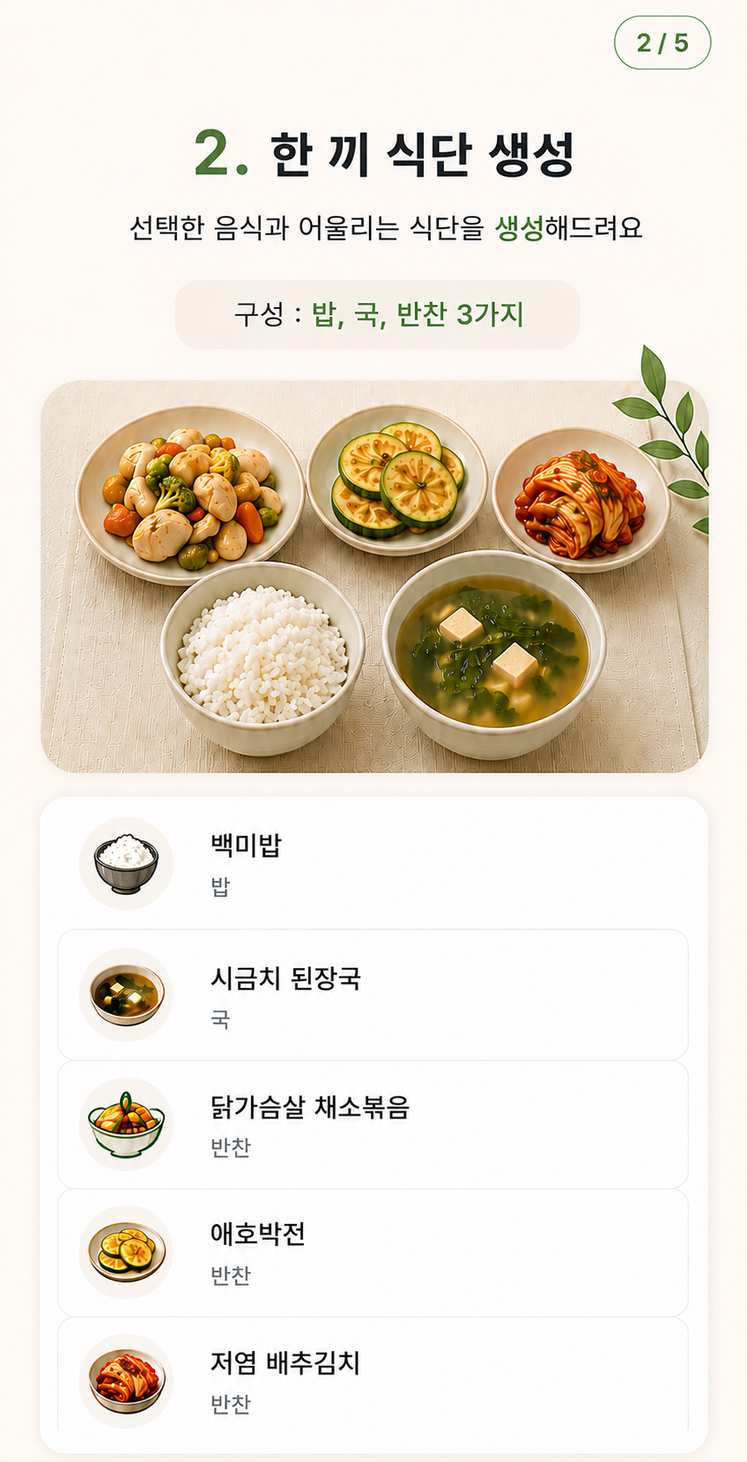
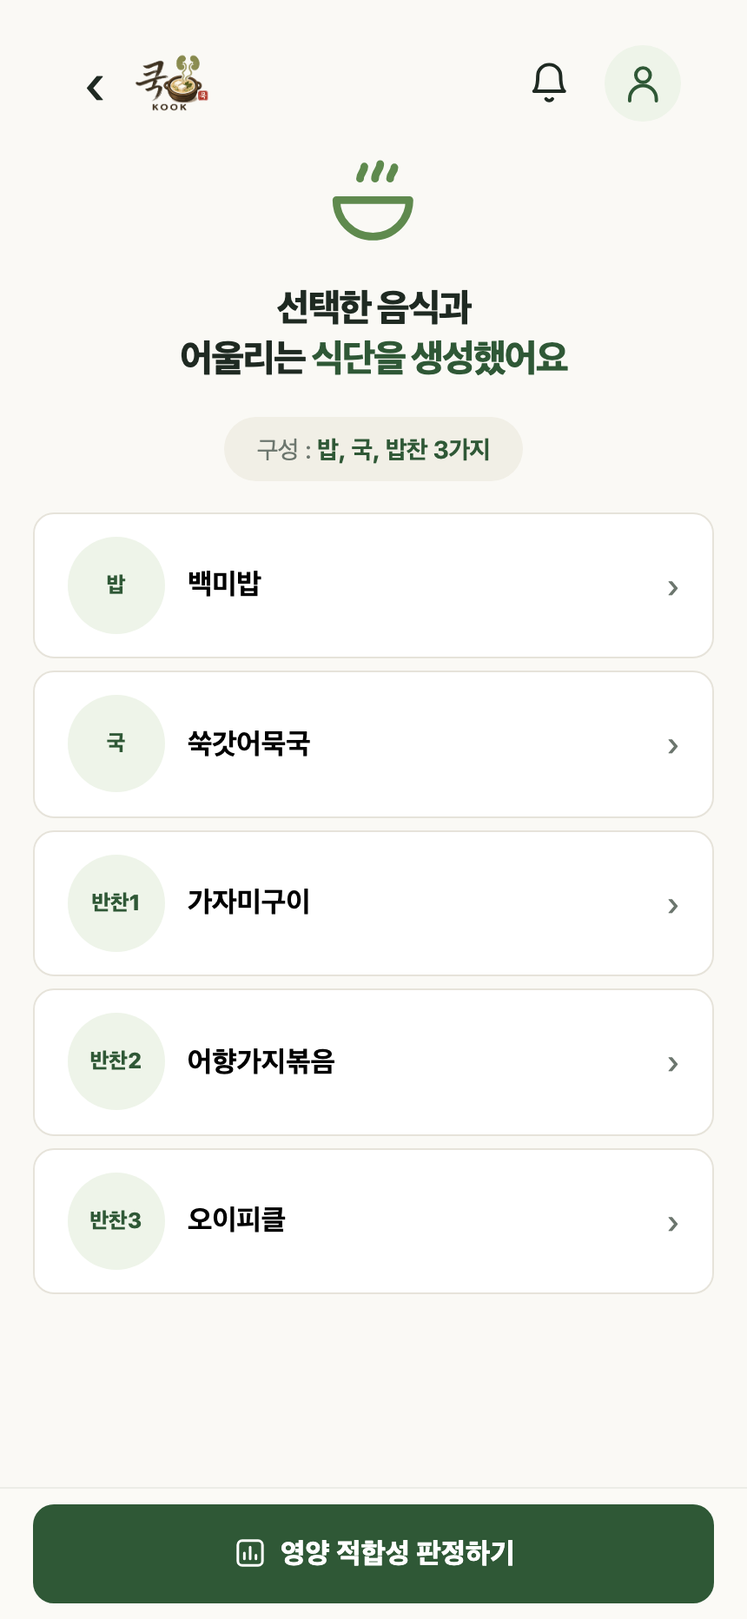
온보딩 이미지의 제목·n/5 배지를 실시간 텍스트로 전환, 실제 화면 캡처로 교체
- 스플래시/1~5단계 텍스트를 이미지에 굽는 방식을 버리고 실시간 DOM으로 전환
  (이미지를 바꿔도 배지·제목 위치가 다시는 어긋나지 않음)
- 1~5단계 이미지를 실제 배포 사이트에서 캡처한 진짜 화면으로 교체, 카드
  테두리/그림자로 배경과 구분되게 함
- 스플래시 "시작하기"를 그림 위 실제 버튼으로 이동(투명 히트박스 제거)
- .detail-header 96% 불투명 버그 수정, 배경을 크림색으로 통일
- .screen의 scrollbar-gutter: stable 제거 — 스크롤 필요 없는 화면에서도
  오른쪽에 여백을 항상 확보해 콘텐츠가 왼쪽으로 치우쳐 보이던 문제 해결

diff --git a/frontend/src/styles.css b/frontend/src/styles.css
@@ -1,7 +1,7 @@
 
-:root{font-family:Pretendard,"Noto Sans KR",Inter,system-ui,-apple-system,sans-serif;color:#29241f;background:#f4f1eb;--g:#7f9560;--gd:#55683f;--gs:#f3f5ed;--line:#e7e2d8;--muted:#756f67;--warn:#c88f42;--red:#a9362c;--ink:#3b3129;--cream:#fbfaf6}*{box-sizing:border-box}body{margin:0;min-width:320px;min-height:100vh}button,input{font:inherit}button{cursor:pointer}.page{min-height:100vh;display:grid;place-items:center;padding:18px}.phone{width:min(100%,390px);height:min(844px,calc(100vh - 36px));background:var(--cream);border-radius:32px;box-shadow:0 24px 70px #28452f22;overflow:hidden;display:flex;flex-direction:column;position:relative}.header{height:76px;display:flex;align-items:center;justify-content:space-between;padding:12px 20px;border-bottom:1px solid #f1f3f1;flex:0 0 auto}.header-title{font-weight:800;letter-spacing:-.02em;color:var(--ink);font-size:14px}.logo-button{border:0;background:none;padding:0;width:58px;height:58px;display:grid;place-items:center}.logo-button img{width:100%;height:100%;object-fit:contain;mix-blend-mode:multiply}.avatar{width:36px;height:36px;border:0;border-radius:50%;background:var(--gs);color:var(--gd);font-weight:800}.back{border:0;background:none;font-size:24px}.header-space{width:30px}.screen{flex:1;min-height:0;padding:24px;overflow-y:auto;overscroll-behavior:contain;scrollbar-gutter:stable}.footer{flex:0 0 auto;padding:12px 22px max(20px,env(safe-area-inset-bottom));background:#fffc;border-top:1px solid #f2f3f2}.btn{width:100%;min-height:54px;border:0;border-radius:16px;background:var(--g);color:#fff;font-weight:800;box-shadow:0 9px 24px #3f8f5a22}.btn:disabled{opacity:.4}.btn-secondary{background:#fff;color:var(--gd);border:1px solid #bad3bf;box-shadow:none}.eyebrow{margin:0 0 9px;color:var(--g);font-weight:800;font-size:14px}h1{font-size:30px;line-height:1.28;letter-spacing:-.045em;margin:0;white-space:pre-line}h2,h3{letter-spacing:-.03em}.sub{color:var(--muted);line-height:1.65;margin:14px 0 0}.onboarding-top{display:flex;justify-content:space-between;align-items:center;margin-bottom:28px}.brand-mini{width:78px;height:78px;object-fit:contain;mix-blend-mode:multiply}.skip{border:0;background:none;color:var(--muted)}.visual-card{margin:26px 0 18px;border:1px solid var(--line);background:linear-gradient(#fffdf8,#f4f3ea);border-radius:24px;padding:14px;min-height:270px;display:flex;flex-direction:column;justify-content:center;overflow:hidden}.visual-card img{width:100%;border-radius:17px;object-fit:cover}.hero img{height:270px;object-position:center;filter:saturate(.88)}.food-hero img{height:190px}.fake-search{background:#fff;border:1px solid var(--line);padding:13px 14px;border-radius:13px;margin-bottom:12px;color:#48554c}.role-pills{display:flex;flex-wrap:wrap;gap:6px;margin-top:12px}.role-pills span,.quick-nutrition span{padding:7px 10px;border-radius:999px;background:#fff;border:1px solid var(--line);font-size:11px;color:var(--gd)}.compare-mini{gap:9px}.compare-mini img{height:90px}.compare-mini>span{text-align:center;color:var(--g);font-weight:800}.action-icons{display:grid;grid-template-columns:repeat(3,1fr);gap:8px;margin-top:12px}.action-icons span{background:#fff;border:1px solid var(--line);border-radius:13px;padding:11px;text-align:center;font-size:12px}.trust,.disclaimer{margin-top:14px;padding:13px 14px;border-radius:14px;background:var(--gs);font-size:12px;color:#42604b;line-height:1.55}.disclaimer{background:#f7f7f5;color:var(--muted)}.dots{display:flex;gap:7px;justify-content:center;margin-bottom:12px}.dot{width:7px;height:7px;border:0;border-radius:20px;background:#d9dfda;padding:0}.dot.active{width:22px;background:var(--g)}.tiny-center{text-align:center;color:var(--muted);font-size:12px;margin:0}.center-brand{text-align:center}.center-brand img{width:190px;max-height:190px;object-fit:contain;mix-blend-mode:multiply}.choice-grid{display:grid;gap:13px;margin-top:28px}.choice-card{width:100%;border:1px solid var(--line);background:#fff;border-radius:20px;padding:15px;display:grid;grid-template-columns:86px 1fr;gap:14px;text-align:left;align-items:center}.choice-card img,.choice-illustration{width:86px;height:76px;border-radius:15px;object-fit:cover}.choice-illustration{display:grid;place-items:center;background:var(--gs);color:var(--g);font-size:38px}.choice-card b{display:block;margin-bottom:6px}.choice-card span{font-size:12px;color:var(--muted);line-height:1.5}.form{display:grid;gap:18px;margin-top:28px}.form label{display:grid;gap:8px;font-size:14px;font-weight:800}.segments{display:grid;grid-template-columns:1fr 1fr;gap:8px}.segment{min-height:48px;border:1px solid var(--line);background:#fff;border-radius:14px}.segment.active{background:var(--gs);border-color:var(--g);color:var(--gd)}.field{display:flex;align-items:center;border:1px solid var(--line);border-radius:14px;padding:0 14px}.field input{height:50px;border:0;outline:0;flex:1;min-width:0}.field span{color:var(--muted);font-weight:500}.dialysis-cards{display:grid;gap:12px;margin-top:26px}.dialysis-card{position:relative;border:1px solid var(--line);border-radius:20px;background:#fff;padding:18px;display:grid;grid-template-columns:55px 1fr;grid-template-rows:auto auto;text-align:left;column-gap:14px;align-items:center}.dialysis-card.selected{border:2px solid var(--g);background:var(--gs)}.medical-icon{grid-row:1/3;width:52px;height:52px;display:grid;place-items:center;border-radius:15px;background:#fff;border:1px solid var(--line);color:var(--g);font-weight:900}.dialysis-card span{color:var(--muted);font-size:12px}.dialysis-card i{position:absolute;right:16px;top:16px;width:24px;height:24px;border-radius:50%;display:grid;place-items:center;background:var(--g);color:#fff;font-style:normal}.modal-bg{position:absolute;inset:0;background:#17211977;z-index:10;display:grid;place-items:end center;padding:18px}.modal{width:100%;background:#fff;border-radius:25px;padding:24px;text-align:center}.modal-mark{width:42px;height:42px;margin:auto;border-radius:50%;display:grid;place-items:center;background:var(--gs);color:var(--g);font-weight:900}.modal h2{font-size:21px}.modal p{color:var(--muted);line-height:1.6;font-size:14px}.tabs{display:grid;grid-template-columns:1fr 1fr;border-bottom:1px solid var(--line);margin-top:26px}.tab{min-height:48px;border:0;border-bottom:2px solid transparent;background:none;color:var(--muted)}.tab.active{color:var(--gd);font-weight:800;border-bottom-color:var(--g)}.search{margin-top:17px;display:flex;align-items:center;gap:8px;border:1px solid var(--line);border-radius:15px;padding:0 14px}.search input{height:50px;border:0;outline:0;flex:1;min-width:0}.section-title{font-size:15px;margin:27px 0 11px}.chips{display:flex;flex-wrap:wrap;gap:8px}.chips button{padding:9px 13px;border-radius:999px;border:1px solid var(--line);background:#fff;color:#48534b}.chips.selected button{background:var(--gs);color:var(--gd);border-color:#bdd5c1}.recommend{display:grid;grid-template-columns:105px 1fr;gap:13px;align-items:center;border:1px solid var(--line);border-radius:18px;padding:12px}.recommend img{width:105px;height:86px;object-fit:cover;border-radius:14px}.recommend b,.recommend span{display:block}.recommend span{color:var(--muted);font-size:12px;margin-top:6px}.loading-page{text-align:center}.loader-plate{width:225px;height:225px;margin:35px auto 22px;border-radius:50%;position:relative;display:grid;place-items:center;background:var(--gs)}.loader-plate img{width:168px;height:168px;border-radius:50%;object-fit:cover}.orbit{position:absolute;inset:0;border:3px solid transparent;border-top-color:var(--g);border-right-color:#9fc2a4;border-radius:50%;animation:spin 1.4s linear infinite}@keyframes spin{to{transform:rotate(360deg)}}.loading-message{font-weight:800}.progress{height:9px;border-radius:99px;background:#e7ede8;overflow:hidden}.progress i{display:block;height:100%;background:var(--g);transition:width .5s}.loading-list{margin-top:24px;text-align:left;display:grid;gap:13px;color:#a1aaa3}.loading-list div{display:flex;gap:9px}.loading-list .done{color:var(--gd)}.meal-grid{display:grid;grid-template-columns:1fr 1fr;gap:10px;margin:24px 0 16px}.meal-card{border:1px solid var(--line);background:#fff;border-radius:18px;padding:16px 14px;text-align:left}.meal-card.featured{grid-column:1/-1;background:var(--gs);border-color:#bdd5c1}.meal-card span{display:block;color:var(--g);font-size:11px;font-weight:800}.meal-card b{display:block;margin-top:6px;font-size:15px}.nutrient-list{margin-top:22px;border:1px solid var(--line);border-radius:18px;overflow:hidden}.nutrient-row{padding:14px;display:flex;justify-content:space-between;align-items:center;border-bottom:1px solid #edf0ed}.nutrient-row:last-child{border-bottom:0}.nutrient-row b,.nutrient-row small{display:block}.nutrient-row small{font-size:10px;color:var(--muted);margin-top:3px}.nutrient-value{display:flex;align-items:baseline;gap:4px}.nutrient-value strong{font-size:17px}.nutrient-value span{font-size:11px;color:var(--muted)}.nutrient-value em{margin-left:7px;font-style:normal;color:var(--g);background:var(--gs);padding:5px 7px;border-radius:99px;font-size:10px}.nutrient-value em.warning{color:#c66b19;background:#fff1e3}.nutrient-list.compact .nutrient-row{padding:10px 12px}.warning-box{margin-top:14px;border:1px solid #ffd1a8;background:#fff7ef;border-radius:16px;padding:14px}.warning-box b,.warning-box span{display:block}.warning-box b{color:#c66b19}.warning-box span{font-size:12px;color:var(--muted);margin-top:5px}.adjust-stage{margin-top:24px;display:grid;gap:14px}.food-before,.food-after{border:1px solid var(--line);border-radius:18px;padding:10px;transition:.8s}.food-before.fade{opacity:.35;transform:scale(.96)}.food-before img,.food-after img{width:100%;height:110px;object-fit:cover;border-radius:13px}.food-before span,.food-after span{display:block;margin-top:7px;font-size:12px}.food-after{opacity:0;transform:translateY(16px)}.food-after.show{opacity:1;transform:none}.swap-row{display:grid;grid-template-columns:1fr 30px 1fr;align-items:center;text-align:center}.ingredient{padding:12px;border-radius:14px;background:#fff4eb;color:#a65d1d;transition:.8s}.ingredient.leave{opacity:.25;transform:translateY(-12px)}.ingredient.enter{opacity:.2;transform:translateY(12px);background:var(--gs);color:var(--gd)}.ingredient.enter.active{opacity:1;transform:none}.change-list{margin-top:20px;display:grid;gap:10px}.change-list div{opacity:0;transform:translateY(8px);transition:.45s;padding:10px 12px;background:var(--gs);border-radius:12px;color:var(--gd);font-size:13px}.change-list div.show{opacity:1;transform:none}.comparison{margin-top:24px;display:grid;grid-template-columns:1fr 24px 1fr;gap:7px;align-items:center}.comparison section{border:1px solid var(--line);border-radius:17px;padding:9px}.comparison img{width:100%;height:100px;object-fit:cover;border-radius:12px;margin:8px 0}.comparison b,.comparison p{display:block;font-size:12px}.comparison p{color:var(--muted);line-height:1.5}.compare-arrow{text-align:center;color:var(--g);font-weight:900}.tag{font-size:10px;padding:5px 7px;border-radius:99px}.tag.bad{background:#fff0e8;color:#b96220}.tag.good{background:var(--gs);color:var(--gd)}.reason-card{margin-top:15px;padding:15px;border-radius:16px;background:var(--gs)}.reason-card p{font-size:13px;color:var(--muted);line-height:1.6;margin-bottom:0}.final-hero{position:relative;margin-top:22px}.final-hero img{width:100%;height:220px;object-fit:cover;border-radius:22px}.final-hero span{position:absolute;right:12px;top:12px;background:var(--g);color:#fff;padding:8px 10px;border-radius:99px;font-size:11px}.action-grid{display:grid;grid-template-columns:repeat(3,1fr);gap:8px;margin-top:14px}.action-grid button{border:1px solid var(--line);background:#fff;border-radius:15px;padding:12px 6px;font-weight:800}.action-grid span{display:block;font-size:10px;margin-top:5px}.recipe-links{display:grid;gap:8px}.recipe-links button{display:grid;grid-template-columns:50px 1fr 20px;align-items:center;text-align:left;border:1px solid var(--line);border-radius:14px;background:#fff;padding:12px}.recipe-links span{font-size:10px;color:var(--g)}.recipe-links i{text-align:right;font-style:normal}.recipe-hero{position:relative}.recipe-hero img{width:100%;height:230px;object-fit:cover;border-radius:21px}.recipe-hero span{position:absolute;right:12px;top:12px;background:var(--gs);color:var(--gd);border-radius:99px;padding:7px 9px;font-size:10px}.recipe-title{margin-top:18px}.quick-nutrition{display:flex;gap:7px;flex-wrap:wrap;margin-top:12px}.ingredient-list{display:grid;grid-template-columns:1fr 1fr;gap:8px;padding:0;list-style:none}.ingredient-list li{background:var(--gs);border-radius:12px;padding:10px;font-size:12px}.steps{list-style:none;padding:0;display:grid;gap:13px}.steps li{display:grid;grid-template-columns:28px 1fr;gap:9px}.steps li>span{width:27px;height:27px;border-radius:50%;display:grid;place-items:center;background:var(--g);color:#fff;font-size:12px}.steps p{margin:2px 0;color:#455148;line-height:1.55;font-size:13px}.pdf-page{background:#fff;border:1px solid var(--line);padding:18px;box-shadow:0 8px 25px #1f292311}.pdf-brand{display:flex;align-items:center;gap:12px;border-bottom:2px solid var(--g);padding-bottom:10px}.pdf-brand img{width:58px}.pdf-brand b,.pdf-brand span{display:block}.pdf-brand span{font-size:10px;color:var(--muted)}.pdf-meal{width:100%;height:170px;object-fit:cover;border-radius:12px}.pdf-page h2{font-size:22px}.pdf-page h3{font-size:13px;color:var(--gd);margin-top:18px}.pdf-page table{width:100%;border-collapse:collapse;font-size:11px}.pdf-page th,.pdf-page td{border-bottom:1px solid #e9ece9;padding:7px;text-align:left}.pdf-page p,.pdf-page li{font-size:10px;line-height:1.55}.pdf-notice{margin-top:17px;background:var(--gs);padding:10px;font-size:8px;line-height:1.5;color:#526256}@media(max-width:430px){.page{padding:0;display:block;background:#fff}.phone{width:100%;height:100dvh;border-radius:0;box-shadow:none}}@media(prefers-reduced-motion:reduce){*{animation:none!important;transition:none!important}}
+:root{font-family:Pretendard,"Noto Sans KR",Inter,system-ui,-apple-system,sans-serif;color:#29241f;background:#f4f1eb;--g:#7f9560;--gd:#55683f;--gs:#f3f5ed;--line:#e7e2d8;--muted:#756f67;--warn:#c88f42;--red:#a9362c;--ink:#3b3129;--cream:#fbfaf6}*{box-sizing:border-box}body{margin:0;min-width:320px;min-height:100vh}button,input{font:inherit}button{cursor:pointer}.page{min-height:100vh;display:grid;place-items:center;padding:18px}.phone{width:min(100%,390px);height:min(844px,calc(100vh - 36px));background:var(--cream);border-radius:32px;box-shadow:0 24px 70px #28452f22;overflow:hidden;display:flex;flex-direction:column;position:relative}.header{height:76px;display:flex;align-items:center;justify-content:space-between;padding:12px 20px;border-bottom:1px solid #f1f3f1;flex:0 0 auto}.header-title{font-weight:800;letter-spacing:-.02em;color:var(--ink);font-size:14px}.logo-button{border:0;background:none;padding:0;width:58px;height:58px;display:grid;place-items:center}.logo-button img{width:100%;height:100%;object-fit:contain;mix-blend-mode:multiply}.avatar{width:36px;height:36px;border:0;border-radius:50%;background:var(--gs);color:var(--gd);font-weight:800}.back{border:0;background:none;font-size:24px}.header-space{width:30px}.screen{flex:1;min-height:0;padding:24px;overflow-y:auto;overscroll-behavior:contain}.footer{flex:0 0 auto;padding:12px 22px max(20px,env(safe-area-inset-bottom));background:#fffc;border-top:1px solid #f2f3f2}.btn{width:100%;min-height:54px;border:0;border-radius:16px;background:var(--g);color:#fff;font-weight:800;box-shadow:0 9px 24px #3f8f5a22}.btn:disabled{opacity:.4}.btn-secondary{background:#fff;color:var(--gd);border:1px solid #bad3bf;box-shadow:none}.eyebrow{margin:0 0 9px;color:var(--g);font-weight:800;font-size:14px}h1{font-size:30px;line-height:1.28;letter-spacing:-.045em;margin:0;white-space:pre-line}h2,h3{letter-spacing:-.03em}.sub{color:var(--muted);line-height:1.65;margin:14px 0 0}.onboarding-top{display:flex;justify-content:space-between;align-items:center;margin-bottom:28px}.brand-mini{width:78px;height:78px;object-fit:contain;mix-blend-mode:multiply}.skip{border:0;background:none;color:var(--muted)}.visual-card{margin:26px 0 18px;border:1px solid var(--line);background:linear-gradient(#fffdf8,#f4f3ea);border-radius:24px;padding:14px;min-height:270px;display:flex;flex-direction:column;justify-content:center;overflow:hidden}.visual-card img{width:100%;border-radius:17px;object-fit:cover}.hero img{height:270px;object-position:center;filter:saturate(.88)}.food-hero img{height:190px}.fake-search{background:#fff;border:1px solid var(--line);padding:13px 14px;border-radius:13px;margin-bottom:12px;color:#48554c}.role-pills{display:flex;flex-wrap:wrap;gap:6px;margin-top:12px}.role-pills span,.quick-nutrition span{padding:7px 10px;border-radius:999px;background:#fff;border:1px solid var(--line);font-size:11px;color:var(--gd)}.compare-mini{gap:9px}.compare-mini img{height:90px}.compare-mini>span{text-align:center;color:var(--g);font-weight:800}.action-icons{display:grid;grid-template-columns:repeat(3,1fr);gap:8px;margin-top:12px}.action-icons span{background:#fff;border:1px solid var(--line);border-radius:13px;padding:11px;text-align:center;font-size:12px}.trust,.disclaimer{margin-top:14px;padding:13px 14px;border-radius:14px;background:var(--gs);font-size:12px;color:#42604b;line-height:1.55}.disclaimer{background:#f7f7f5;color:var(--muted)}.dots{display:flex;gap:7px;justify-content:center;margin-bottom:12px}.dot{width:7px;height:7px;border:0;border-radius:20px;background:#d9dfda;padding:0}.dot.active{width:22px;background:var(--g)}.tiny-center{text-align:center;color:var(--muted);font-size:12px;margin:0}.center-brand{text-align:center}.center-brand img{width:190px;max-height:190px;object-fit:contain;mix-blend-mode:multiply}.choice-grid{display:grid;gap:13px;margin-top:28px}.choice-card{width:100%;border:1px solid var(--line);background:#fff;border-radius:20px;padding:15px;display:grid;grid-template-columns:86px 1fr;gap:14px;text-align:left;align-items:center}.choice-card img,.choice-illustration{width:86px;height:76px;border-radius:15px;object-fit:cover}.choice-illustration{display:grid;place-items:center;background:var(--gs);color:var(--g);font-size:38px}.choice-card b{display:block;margin-bottom:6px}.choice-card span{font-size:12px;color:var(--muted);line-height:1.5}.form{display:grid;gap:18px;margin-top:28px}.form label{display:grid;gap:8px;font-size:14px;font-weight:800}.segments{display:grid;grid-template-columns:1fr 1fr;gap:8px}.segment{min-height:48px;border:1px solid var(--line);background:#fff;border-radius:14px}.segment.active{background:var(--gs);border-color:var(--g);color:var(--gd)}.field{display:flex;align-items:center;border:1px solid var(--line);border-radius:14px;padding:0 14px}.field input{height:50px;border:0;outline:0;flex:1;min-width:0}.field span{color:var(--muted);font-weight:500}.dialysis-cards{display:grid;gap:12px;margin-top:26px}.dialysis-card{position:relative;border:1px solid var(--line);border-radius:20px;background:#fff;padding:18px;display:grid;grid-template-columns:55px 1fr;grid-template-rows:auto auto;text-align:left;column-gap:14px;align-items:center}.dialysis-card.selected{border:2px solid var(--g);background:var(--gs)}.medical-icon{grid-row:1/3;width:52px;height:52px;display:grid;place-items:center;border-radius:15px;background:#fff;border:1px solid var(--line);color:var(--g);font-weight:900}.dialysis-card span{color:var(--muted);font-size:12px}.dialysis-card i{position:absolute;right:16px;top:16px;width:24px;height:24px;border-radius:50%;display:grid;place-items:center;background:var(--g);color:#fff;font-style:normal}.modal-bg{position:absolute;inset:0;background:#17211977;z-index:10;display:grid;place-items:end center;padding:18px}.modal{width:100%;background:#fff;border-radius:25px;padding:24px;text-align:center}.modal-mark{width:42px;height:42px;margin:auto;border-radius:50%;display:grid;place-items:center;background:var(--gs);color:var(--g);font-weight:900}.modal h2{font-size:21px}.modal p{color:var(--muted);line-height:1.6;font-size:14px}.tabs{display:grid;grid-template-columns:1fr 1fr;border-bottom:1px solid var(--line);margin-top:26px}.tab{min-height:48px;border:0;border-bottom:2px solid transparent;background:none;color:var(--muted)}.tab.active{color:var(--gd);font-weight:800;border-bottom-color:var(--g)}.search{margin-top:17px;display:flex;align-items:center;gap:8px;border:1px solid var(--line);border-radius:15px;padding:0 14px}.search input{height:50px;border:0;outline:0;flex:1;min-width:0}.section-title{font-size:15px;margin:27px 0 11px}.chips{display:flex;flex-wrap:wrap;gap:8px}.chips button{padding:9px 13px;border-radius:999px;border:1px solid var(--line);background:#fff;color:#48534b}.chips.selected button{background:var(--gs);color:var(--gd);border-color:#bdd5c1}.recommend{display:grid;grid-template-columns:105px 1fr;gap:13px;align-items:center;border:1px solid var(--line);border-radius:18px;padding:12px}.recommend img{width:105px;height:86px;object-fit:cover;border-radius:14px}.recommend b,.recommend span{display:block}.recommend span{color:var(--muted);font-size:12px;margin-top:6px}.loading-page{text-align:center}.loader-plate{width:225px;height:225px;margin:35px auto 22px;border-radius:50%;position:relative;display:grid;place-items:center;background:var(--gs)}.loader-plate img{width:168px;height:168px;border-radius:50%;object-fit:cover}.orbit{position:absolute;inset:0;border:3px solid transparent;border-top-color:var(--g);border-right-color:#9fc2a4;border-radius:50%;animation:spin 1.4s linear infinite}@keyframes spin{to{transform:rotate(360deg)}}.loading-message{font-weight:800}.progress{height:9px;border-radius:99px;background:#e7ede8;overflow:hidden}.progress i{display:block;height:100%;background:var(--g);transition:width .5s}.loading-list{margin-top:24px;text-align:left;display:grid;gap:13px;color:#a1aaa3}.loading-list div{display:flex;gap:9px}.loading-list .done{color:var(--gd)}.meal-grid{display:grid;grid-template-columns:1fr 1fr;gap:10px;margin:24px 0 16px}.meal-card{border:1px solid var(--line);background:#fff;border-radius:18px;padding:16px 14px;text-align:left}.meal-card.featured{grid-column:1/-1;background:var(--gs);border-color:#bdd5c1}.meal-card span{display:block;color:var(--g);font-size:11px;font-weight:800}.meal-card b{display:block;margin-top:6px;font-size:15px}.nutrient-list{margin-top:22px;border:1px solid var(--line);border-radius:18px;overflow:hidden}.nutrient-row{padding:14px;display:flex;justify-content:space-between;align-items:center;border-bottom:1px solid #edf0ed}.nutrient-row:last-child{border-bottom:0}.nutrient-row b,.nutrient-row small{display:block}.nutrient-row small{font-size:10px;color:var(--muted);margin-top:3px}.nutrient-value{display:flex;align-items:baseline;gap:4px}.nutrient-value strong{font-size:17px}.nutrient-value span{font-size:11px;color:var(--muted)}.nutrient-value em{margin-left:7px;font-style:normal;color:var(--g);background:var(--gs);padding:5px 7px;border-radius:99px;font-size:10px}.nutrient-value em.warning{color:#c66b19;background:#fff1e3}.nutrient-list.compact .nutrient-row{padding:10px 12px}.warning-box{margin-top:14px;border:1px solid #ffd1a8;background:#fff7ef;border-radius:16px;padding:14px}.warning-box b,.warning-box span{display:block}.warning-box b{color:#c66b19}.warning-box span{font-size:12px;color:var(--muted);margin-top:5px}.adjust-stage{margin-top:24px;display:grid;gap:14px}.food-before,.food-after{border:1px solid var(--line);border-radius:18px;padding:10px;transition:.8s}.food-before.fade{opacity:.35;transform:scale(.96)}.food-before img,.food-after img{width:100%;height:110px;object-fit:cover;border-radius:13px}.food-before span,.food-after span{display:block;margin-top:7px;font-size:12px}.food-after{opacity:0;transform:translateY(16px)}.food-after.show{opacity:1;transform:none}.swap-row{display:grid;grid-template-columns:1fr 30px 1fr;align-items:center;text-align:center}.ingredient{padding:12px;border-radius:14px;background:#fff4eb;color:#a65d1d;transition:.8s}.ingredient.leave{opacity:.25;transform:translateY(-12px)}.ingredient.enter{opacity:.2;transform:translateY(12px);background:var(--gs);color:var(--gd)}.ingredient.enter.active{opacity:1;transform:none}.change-list{margin-top:20px;display:grid;gap:10px}.change-list div{opacity:0;transform:translateY(8px);transition:.45s;padding:10px 12px;background:var(--gs);border-radius:12px;color:var(--gd);font-size:13px}.change-list div.show{opacity:1;transform:none}.comparison{margin-top:24px;display:grid;grid-template-columns:1fr 24px 1fr;gap:7px;align-items:center}.comparison section{border:1px solid var(--line);border-radius:17px;padding:9px}.comparison img{width:100%;height:100px;object-fit:cover;border-radius:12px;margin:8px 0}.comparison b,.comparison p{display:block;font-size:12px}.comparison p{color:var(--muted);line-height:1.5}.compare-arrow{text-align:center;color:var(--g);font-weight:900}.tag{font-size:10px;padding:5px 7px;border-radius:99px}.tag.bad{background:#fff0e8;color:#b96220}.tag.good{background:var(--gs);color:var(--gd)}.reason-card{margin-top:15px;padding:15px;border-radius:16px;background:var(--gs)}.reason-card p{font-size:13px;color:var(--muted);line-height:1.6;margin-bottom:0}.final-hero{position:relative;margin-top:22px}.final-hero img{width:100%;height:220px;object-fit:cover;border-radius:22px}.final-hero span{position:absolute;right:12px;top:12px;background:var(--g);color:#fff;padding:8px 10px;border-radius:99px;font-size:11px}.action-grid{display:grid;grid-template-columns:repeat(3,1fr);gap:8px;margin-top:14px}.action-grid button{border:1px solid var(--line);background:#fff;border-radius:15px;padding:12px 6px;font-weight:800}.action-grid span{display:block;font-size:10px;margin-top:5px}.recipe-links{display:grid;gap:8px}.recipe-links button{display:grid;grid-template-columns:50px 1fr 20px;align-items:center;text-align:left;border:1px solid var(--line);border-radius:14px;background:#fff;padding:12px}.recipe-links span{font-size:10px;color:var(--g)}.recipe-links i{text-align:right;font-style:normal}.recipe-hero{position:relative}.recipe-hero img{width:100%;height:230px;object-fit:cover;border-radius:21px}.recipe-hero span{position:absolute;right:12px;top:12px;background:var(--gs);color:var(--gd);border-radius:99px;padding:7px 9px;font-size:10px}.recipe-title{margin-top:18px}.quick-nutrition{display:flex;gap:7px;flex-wrap:wrap;margin-top:12px}.ingredient-list{display:grid;grid-template-columns:1fr 1fr;gap:8px;padding:0;list-style:none}.ingredient-list li{background:var(--gs);border-radius:12px;padding:10px;font-size:12px}.steps{list-style:none;padding:0;display:grid;gap:13px}.steps li{display:grid;grid-template-columns:28px 1fr;gap:9px}.steps li>span{width:27px;height:27px;border-radius:50%;display:grid;place-items:center;background:var(--g);color:#fff;font-size:12px}.steps p{margin:2px 0;color:#455148;line-height:1.55;font-size:13px}.pdf-page{background:#fff;border:1px solid var(--line);padding:18px;box-shadow:0 8px 25px #1f292311}.pdf-brand{display:flex;align-items:center;gap:12px;border-bottom:2px solid var(--g);padding-bottom:10px}.pdf-brand img{width:58px}.pdf-brand b,.pdf-brand span{display:block}.pdf-brand span{font-size:10px;color:var(--muted)}.pdf-meal{width:100%;height:170px;object-fit:cover;border-radius:12px}.pdf-page h2{font-size:22px}.pdf-page h3{font-size:13px;color:var(--gd);margin-top:18px}.pdf-page table{width:100%;border-collapse:collapse;font-size:11px}.pdf-page th,.pdf-page td{border-bottom:1px solid #e9ece9;padding:7px;text-align:left}.pdf-page p,.pdf-page li{font-size:10px;line-height:1.55}.pdf-notice{margin-top:17px;background:var(--gs);padding:10px;font-size:8px;line-height:1.5;color:#526256}@media(max-width:430px){.page{padding:0;display:block;background:#fff}.phone{width:100%;height:100dvh;border-radius:0;box-shadow:none}}@media(prefers-reduced-motion:reduce){*{animation:none!important;transition:none!important}}
 
-.header-actions{display:flex;align-items:center;gap:7px}.detail-header{position:sticky;top:0;z-index:5;background:#fff}.nav-icon{width:38px;height:38px;border:0;border-radius:12px;background:#f4f7f3;color:var(--gd);font-size:21px;font-weight:800;display:grid;place-items:center}.home-icon{font-size:20px}.page-navigation{display:grid;grid-template-columns:1fr 1fr;gap:8px;margin-top:14px}.pdf-footer-actions{display:grid;grid-template-columns:1fr 1.25fr;gap:8px}.meal-recipe-table{table-layout:fixed}.meal-recipe-table th:nth-child(1){width:11%}.meal-recipe-table th:nth-child(2){width:18%}.meal-recipe-table th:nth-child(3){width:28%}.meal-recipe-table th:nth-child(4){width:43%}.meal-recipe-table th,.meal-recipe-table td{vertical-align:top;word-break:keep-all}.meal-recipe-table ul,.meal-recipe-table ol{margin:0;padding-left:13px}.meal-recipe-table li{margin-bottom:3px}.nutrition-pdf-table th,.nutrition-pdf-table td{text-align:center}.pdf-page{width:100%;min-width:680px}.screen:has(.pdf-page){overflow-x:auto}.pdf-page h3{page-break-after:avoid}.meal-recipe-table tr{page-break-inside:avoid}
+.header-actions{display:flex;align-items:center;gap:7px}.header.detail-header{position:sticky;top:0;z-index:5;background:var(--cream)}.nav-icon{width:38px;height:38px;border:0;border-radius:12px;background:#f4f7f3;color:var(--gd);font-size:21px;font-weight:800;display:grid;place-items:center}.home-icon{font-size:20px}.page-navigation{display:grid;grid-template-columns:1fr 1fr;gap:8px;margin-top:14px}.pdf-footer-actions{display:grid;grid-template-columns:1fr 1.25fr;gap:8px}.meal-recipe-table{table-layout:fixed}.meal-recipe-table th:nth-child(1){width:11%}.meal-recipe-table th:nth-child(2){width:18%}.meal-recipe-table th:nth-child(3){width:28%}.meal-recipe-table th:nth-child(4){width:43%}.meal-recipe-table th,.meal-recipe-table td{vertical-align:top;word-break:keep-all}.meal-recipe-table ul,.meal-recipe-table ol{margin:0;padding-left:13px}.meal-recipe-table li{margin-bottom:3px}.nutrition-pdf-table th,.nutrition-pdf-table td{text-align:center}.pdf-page{width:100%;min-width:680px}.screen:has(.pdf-page){overflow-x:auto}.pdf-page h3{page-break-after:avoid}.meal-recipe-table tr{page-break-inside:avoid}
 @media(max-width:430px){.pdf-page{transform-origin:top left;min-width:680px}.pdf-preview-scroll{overflow-x:auto}}
 
 /* FOOK original logo branding */

diff --git a/frontend/src/fluid.css b/frontend/src/fluid.css
@@ -315,14 +315,6 @@
 .modal.ask p { font-size: var(--fs-xs); }
 .ask-actions button { font-size: var(--fs-sm); }
 
-/* 온보딩 단계 이미지 (public/assets/onboarding-1~5.png) */
-.onboarding-shot { margin: var(--sp-md) 0 0; }
-.onboarding-shot img {
-  display: block; width: 100%; height: auto;
-  border: 1px solid var(--line); border-radius: var(--rd-md);
-  background: #fff;
-}
-
 /* PDF 문서 폭을 넓혀 세로를 줄인다 (A4 비율 1.41에 가깝게 → 축소율이 줄어 글자가 커진다) */
 .pdf-page { min-width: 860px; }
 .meal-recipe-table th:nth-child(1) { width: 8%; }
@@ -331,33 +323,48 @@
 .meal-recipe-table th:nth-child(4) { width: 46%; }
 
 /* ============================================================================
-   v21 — 온보딩 단계 이미지를 화면 한 장으로 사용
-   이미지 안에 제목과 n/5 배지가 이미 들어 있어, 화면 텍스트는 감추고 이미지만 채운다.
-   하단의 이전 / 다음 버튼은 실제 동작하는 버튼이다.
+   온보딩 단계 화면 — 제목·건너뛰기·n/5 배지는 항상 실시간 텍스트(.onboarding-head)로
+   그리고, 그 아래(.onboarding-photo)에 실제 화면 스크린샷을 꽉 채운다.
+   이미지에는 어떤 텍스트도 굽지 않는다 — 이미지를 새로 바꿔도 배지·제목 위치가
+   절대 어긋나지 않는다(예전엔 이미지에 직접 그려 넣어 이미지마다 위치가 미묘하게
+   달랐다).
    ========================================================================== */
 .screen.screen-full { padding: 0; overflow: hidden; }
-.onboarding-page { position: relative; width: 100%; height: 100%; }
+.onboarding-page {
+  display: flex; flex-direction: column;
+  width: 100%; height: 100%;
+}
+.onboarding-head {
+  flex: 0 0 auto;
+  padding: var(--sp-lg) var(--sp-lg) var(--sp-md);
+  background: var(--cream, #fbfaf6);
+}
+.onboarding-photo {
+  flex: 1; min-height: 0;
+  position: relative;
+  /* 화면 배경과 스크린샷 배경이 둘 다 크림색이라 경계가 안 보이던 문제 —
+     테두리·둥근 모서리·그림자로 "이 안쪽은 실제 화면 캡처"라는 카드 경계를
+     만든다. 좌우·아래는 여백을 둬 페이지 배경이 비쳐 보이게 한다. */
+  padding: 0 var(--sp-lg) var(--sp-lg);
+  overflow: hidden;
+  background: var(--cream, #fbfaf6);
+}
 /* contain 이면 세로가 길어질수록 아래에 빈 띠가 남는다. cover 로 채우고
-   기준점을 위쪽에 두어, 잘리더라도 이미지 상단의 제목과 n/5 배지는 항상 보이게 한다. */
-.onboarding-page img {
+   기준점을 위쪽에 두어, 화면 상단(실제 앱의 헤더·내용 시작 지점)이 항상 보이게 한다. */
+.onboarding-photo img {
   display: block; width: 100%; height: 100%;
   object-fit: cover; object-position: top center;
-}
-.skip.float {
-  position: absolute; top: var(--sp-sm); left: var(--sp-sm);
-  padding: 6px 12px; border-radius: 999px;
-  background: rgba(255, 255, 255, .86); color: var(--muted);
-  font-size: var(--fs-xs); font-weight: 700;
+  border-radius: var(--rd-lg, 22px);
   border: 1px solid var(--line);
+  box-shadow: 0 14px 30px rgba(43, 54, 44, .14);
 }
+.onboarding-photo .visual-card { margin: 0; height: 100%; }
 
 /* ============================================================================
    v22 — 스플래시 이미지 · 체험 안내 팝업 · 저장 목적지 통일
    ========================================================================== */
-/* 스플래시: 시안 이미지를 손대지 않고 그대로 한 화면으로 쓴다.
-   그림 속 '시작하기' 버튼 위에 투명한 진짜 버튼만 겹쳐 눌리게 하고,
-   화면에 시각은 표시하지 않는다.
-   (위치 값은 이미지에서 픽셀 단위로 실측한 비율) */
+/* 스플래시: 일러스트 한 장을 화면 가득 보여준다. 그림에는 문구나 버튼을 굽지
+   않는다 — "시작하기"는 그림 위에 얹는 실제 버튼이다(.splash-cta, Splash 함수 참고). */
 .splash-shot {
   width: 100%; height: 100%;
   /* 줄어든 이미지 둘레를 채우는 색 — 그림 테두리에서 가장 많이 나온 색(실측) */
@@ -368,20 +375,15 @@
   container-type: size;
 }
 /* ── 스플래시 이미지 크기 ──────────────────────────────────────────────────
-   그림 속 문구가 이미지에 그려져 있어, 글씨를 줄이려면 이미지를 줄여야 한다.
-
    --splash-ar    이미지의 세로/가로 비율. 이미지를 교체하면 이 값만 실제 픽셀에
                   맞춰 고치면 되고, 아래 계산은 손댈 필요가 없다.
-                    현재 onboarding-home.png = 941 × 1672 → 1672/941 = 1.777
    --splash-scale 화면에 꽉 맞췄을 때 대비 배율. 1 = 잘림 없이 최대 크기,
-                  값을 낮출수록 그림(=글씨)이 작아지고 둘레 여백이 넓어진다.
+                  값을 낮출수록 그림이 작아지고 둘레 여백이 넓어진다.
                   여백은 .splash-shot 배경색으로 채워져 그림과 이어져 보인다.
 
-   폭은 '세로·가로 어느 쪽도 넘치지 않는 크기'(min)에 배율을 곱해 잡는다.
-   프레임이 이미지 상자와 정확히 일치하므로, 안에 겹쳐 둔 % 좌표(시작하기 버튼)는
-   배율과 무관하게 그림 위 같은 자리에 붙어 있는다. */
+   폭은 '세로·가로 어느 쪽도 넘치지 않는 크기'(min)에 배율을 곱해 잡는다. */
 .splash-frame {
-  --splash-ar: 2.108;   /* onboarding-home.png = 864 x 1821 */
+  --splash-ar: 2.167;   /* onboarding-home.png = 852 x 1846 */
   --splash-scale: 1;
   position: relative;
   flex: none;                        /* flex가 임의로 줄이지 못하게 */
@@ -397,22 +399,29 @@
 .splash-frame img {
   display: block;
   width: 100%; height: 100%;
-  object-fit: cover; object-position: bottom center;
+  object-fit: cover; object-position: center;
 }
 @supports not (width: 100cqh) {
   /* 컨테이너 크기 쿼리 미지원 브라우저: 확대 없이 폭에 맞춘다 */
   .splash-frame { width: 100%; }
 }
 
-/* 그림 속 버튼 위 투명 버튼 */
-.splash-hit {
+/* 그림 중앙 하단쪽에 얹는 실제 "시작하기" 버튼. 그림 속 특정 좌표를 실측해
+   맞춘 게 아니라 우리가 정한 위치라, 그림을 바꿔도 손댈 필요가 없다. */
+.splash-cta {
   position: absolute;
-  left: 22.3%; right: 24.3%; top: 92.8%; bottom: 2.8%;
-  border: 0; background: transparent; padding: 0;
-  border-radius: 999px; cursor: pointer;
+  left: 50%; bottom: 7%;
+  transform: translateX(-50%);
+  width: 64%; min-width: 168px;
+  min-height: 52px;
+  display: flex; align-items: center; justify-content: center; gap: 6px;
+  border: 0; border-radius: 999px; cursor: pointer;
+  background: linear-gradient(135deg, var(--gd), var(--g));
+  color: #fff; font-weight: 800; font-size: var(--fs-sm);
+  box-shadow: 0 10px 26px rgba(20, 30, 20, .32);
 }
-.splash-hit:focus-visible { outline: 3px solid var(--gd); outline-offset: 3px; }
-.splash-hit:active { background: rgba(0, 0, 0, .07); }
+.splash-cta:focus-visible { outline: 3px solid #fff; outline-offset: 2px; }
+.splash-cta:active { filter: brightness(.94); }
 
 /* 체험 안내 팝업의 예시 프로필 표 */
 .guest-profile {
@@ -446,21 +455,3 @@
 .header-brand:focus-visible { outline: 2px solid var(--gd); outline-offset: 3px; border-radius: 6px; }
 .header-lead { gap: var(--sp-xs); }
 .header-lead-title { margin-left: var(--sp-xs); }
-
-/* 이미지 한 장으로 채운 화면(온보딩 1~5) 위에 얹는 로고 */
-.shot-brand {
-  position: absolute; top: var(--sp-sm); left: var(--sp-md);
-  display: block; pointer-events: none; z-index: 2;
-}
-.shot-brand img {
-  display: block;
-  height: clamp(26px, 7.4cqi, 36px) !important;
-  width: auto !important;
-  object-fit: contain;
-  mix-blend-mode: multiply;
-}
-/* 건너뛰기는 위쪽 가운데 — 왼쪽 로고, 오른쪽 n/5 배지와 겹치지 않는 자리 */
-.skip.float.right {
-  left: 50%; right: auto;
-  transform: translateX(-50%);
-}

diff --git a/frontend/src/pages/onboarding/OnboardingPage.tsx b/frontend/src/pages/onboarding/OnboardingPage.tsx
@@ -48,10 +48,10 @@ const slides = [
 ] as const;
 
 // 첫 화면: "오늘 뭐 해 먹지?" 스플래시. 시작하기를 누르면 온보딩 5단계로 들어간다.
+// "시작하기" 버튼은 항상 실제 DOM 버튼이다 — 그림에는 텍스트나 버튼을 굽지 않으므로,
+// 이미지를 새로 바꿔도 버튼 위치가 어긋날 일이 없다. 그림이 있을 때는 그림 하단부
+// 안쪽에 버튼을 얹고(.splash-cta), 그림이 없을 때만 Shell 하단 footer 버튼을 쓴다.
 function Splash({ onStart }: { onStart: () => void }) {
-  // 준비된 홈 이미지가 있으면 그 한 장을 화면 전체로 쓴다.
-  // 그림 속 '시작하기' 버튼은 일러스트 위에 겹쳐 그려져 있어 잘라낼 수 없으므로,
-  // 그 자리에 투명한 진짜 버튼을 겹쳐 둔다 (위치는 이미지에서 실측한 비율).
   const [shotFailed, setShotFailed] = useState(false);
   if (!shotFailed)
     return (
@@ -63,12 +63,9 @@ function Splash({ onStart }: { onStart: () => void }) {
               alt="오늘 뭐 해 먹지? 고민에 푹 빠질 땐 KOOK이 도와드립니다"
               onError={() => setShotFailed(true)}
             />
-            {/* 그림 속 '시작하기' 버튼 위에 겹치는 투명 버튼 */}
-            <button
-              className="splash-hit"
-              onClick={onStart}
-              aria-label="시작하기"
-            />
+            <button className="splash-cta" onClick={onStart}>
+              시작하기 <i className="btn-arrow">→</i>
+            </button>
           </div>
         </div>
       </Shell>
@@ -117,8 +114,9 @@ const PREVIEW_MENUS = [
   ["저염 배추김치", "반찬"],
 ] as const;
 
-// 온보딩 단계별 이미지. public/assets 에 파일이 있으면 그 이미지를 쓰고,
+// 온보딩 단계별 이미지(실제 앱 화면 캡처). public/assets 에 파일이 있으면 그 이미지를 쓰고,
 // 없으면(파일 미준비) 아래의 CSS 미리보기로 자동 대체된다.
+// 이미지에는 제목·n/5 배지를 굽지 않는다 — 화면 위쪽에 실시간 텍스트로 항상 얹는다.
 const ONBOARDING_IMAGE: Record<string, string> = {
   search: "/assets/onboarding-1.png",
   meal: "/assets/onboarding-2.png",
@@ -289,43 +287,41 @@ export function OnboardingPage() {
       nextLabel={last ? "시작" : "다음"}
     />
   );
-  // 단계 이미지가 준비돼 있으면 그 이미지 한 장이 곧 화면이다.
-  // (이미지 안에 제목과 1/5 배지가 이미 들어 있어서 화면 텍스트와 겹치지 않게 감춘다)
+  // 제목·건너뛰기·n/5 배지는 항상 실시간 텍스트로 그리고, 그 아래에 실제 화면
+  // 스크린샷(준비돼 있으면) 또는 CSS 미리보기를 채운다.
   const shot = ONBOARDING_IMAGE[s[3]];
+  const head = (
+    <>
+      <div className="onboarding-top">
+        <button className="skip" onClick={finish}>
+          건너뛰기
+        </button>
+        <span className="step-count">
+          {i + 1} / {slides.length}
+        </span>
+      </div>
+      <h1 className="onboarding-title">
+        <b>{s[0]}</b> {s[1]}
+      </h1>
+      <p className="sub center">{s[2]}</p>
+    </>
+  );
   return (
-    <Shell header={false} footer={footer} full={!!shot && !shotFailed}>
-      {shot && !shotFailed ? (
-        <div className="onboarding-page">
-          <img
-            src={shot}
-            alt={`${s[0]} ${s[1]} — ${s[2]}`}
-            onError={() => setShotFailed(true)}
-          />
-          {/* 이미지 화면에도 왼쪽 위에 로고를 얹고, 건너뛰기는 반대쪽으로 보낸다 */}
-          <span className="shot-brand" aria-hidden="true">
-            <Logo />
-          </span>
-          <button className="skip float right" onClick={finish}>
-            건너뛰기
-          </button>
+    <Shell header={false} footer={footer} full>
+      <div className="onboarding-page">
+        <div className="onboarding-head">{head}</div>
+        <div className="onboarding-photo">
+          {shot && !shotFailed ? (
+            <img
+              src={shot}
+              alt={`${s[0]} ${s[1]} — ${s[2]}`}
+              onError={() => setShotFailed(true)}
+            />
+          ) : (
+            <OnboardingVisual type={s[3]} />
+          )}
         </div>
-      ) : (
-        <>
-          <div className="onboarding-top">
-            <button className="skip" onClick={finish}>
-              건너뛰기
-            </button>
-            <span className="step-count">
-              {i + 1} / {slides.length}
-            </span>
-          </div>
-          <h1 className="onboarding-title">
-            <b>{s[0]}</b> {s[1]}
-          </h1>
-          <p className="sub center">{s[2]}</p>
-          <OnboardingVisual type={s[3]} />
-        </>
-      )}
+      </div>
     </Shell>
   );
 }

diff --git a/docs/DEVLOG.md b/docs/DEVLOG.md
@@ -4,7 +4,51 @@
 
 ---
 
+## v25 업데이트 — 온보딩 이미지 재구성: 제목·n/5 배지를 실시간 텍스트로, 본문은 실제 앱 화면 캡처로 교체
+
+### 배경
+v24에서 "캔버스 비율 통일"로 배지 위치 어긋남을 고쳤다고 기록했지만, 실사용
+환경(하드 리프레시 포함)에서 여전히 어긋나 보인다는 피드백을 받았다. 픽셀
+단위로 재측정한 결과, 진짜 원인은 캔버스 비율이 아니라 **5장 각각의 이미지
+안에서 배지가 그려진 위치 자체가 미묘하게 달랐다**는 것(상단 오프셋
+0.54%~2.16%p 편차) — v24의 캔버스 패딩 방식으로는 근본적으로 고칠 수 없는
+종류의 문제였다.
+
+### 근본 수정
+"이미지에 텍스트를 굽는" 접근 자체를 버렸다. 이제:
+- 온보딩 1~5단계: 제목·"건너뛰기"·"n/5" 배지를 전부 `OnboardingPage.tsx`의
+  실시간 DOM(`.onboarding-head`)으로 렌더링하고, 그 아래(`.onboarding-photo`)에
+  **실제 KOOK 앱을 프로덕션(kook-hemodialysis-meal-ai.vercel.app)에서 직접
+  캡처한 화면 스크린샷**을 채운다. 이미지에는 어떤 텍스트도 없다 — 이미지를
+  통째로 새로 바꿔도 배지·제목 위치는 항상 CSS로 고정된 같은 자리에 있다.
+- 스플래시(`onboarding-home.png`)도 동일 원칙: 그림 속에 그려져 있던
+  "시작하기" 버튼과, 그 위치를 %로 실측해 겹쳐 두던 투명 버튼(`.splash-hit`)을
+  전부 제거하고 Shell의 실제 footer 버튼 하나로 통일. 이미지는 순수 일러스트만
+  담당(사용자가 새로 그려서 교체).
+- 온보딩 1~5단계 화면 캡처는 Chrome DevTools Protocol을 직접 구동해
+  자동화했다: 실제 검색→식단 생성→영양 판정→레시피 재구성(AI 편집 조리법
+  포함)→완성까지 클릭해서 이동하며 각 단계를 캡처. 5단계는 최종 영양 요약
+  대신 "재료+AI 편집 조리과정"이 보이는 화면으로 캡처해 3단계(판정)와
+  내용이 겹치지 않게 했다.
+- 부수적으로 발견한 버그: `BackHeader`가 쓰는 `.detail-header{background:#fff}`
+  가 뒤에 나오는 `.header,.footer{background:rgba(251,250,246,.96)}`에
+  동일 우선순위로 덮어써져 헤더가 96%만 불투명했다(스크롤 중인 콘텐츠가
+  아주 살짝 비쳐 보일 수 있음). `.header.detail-header`로 선택자를 좁혀
+  완전 불투명(`#fff`)이 항상 이기도록 수정.
+- 죽은 CSS(`.onboarding-shot`, `.shot-brand`, `.skip.float*`) 정리.
+
+### 검증
+- ✅ `npx tsc -b`, `npm run build` 통과.
+- ✅ 브라우저로 스플래시·1~5단계 전체 재확인: "n/5" 배지·제목이 모든 단계에서
+  픽셀 단위로 완전히 동일한 위치에 렌더링됨(더 이상 이미지에 의존하지 않으므로
+  구조적으로 어긋날 수 없음).
+
+---
+
 ## v24 업데이트 — CORS 배포 주소 교체 + 온보딩 이미지 비율 통일
+
+> ⚠ 이 항목의 "온보딩 이미지 비율 통일" 부분은 근본 원인 진단이 틀렸던 것으로
+> 나중에 밝혀졌다. 실제 원인과 최종 수정은 위 v25 항목 참고.
 
 ### CORS
 새로 배포한 프론트 주소(`kook-hemodialysis-meal-ai.vercel.app`)가 예전 팀원
